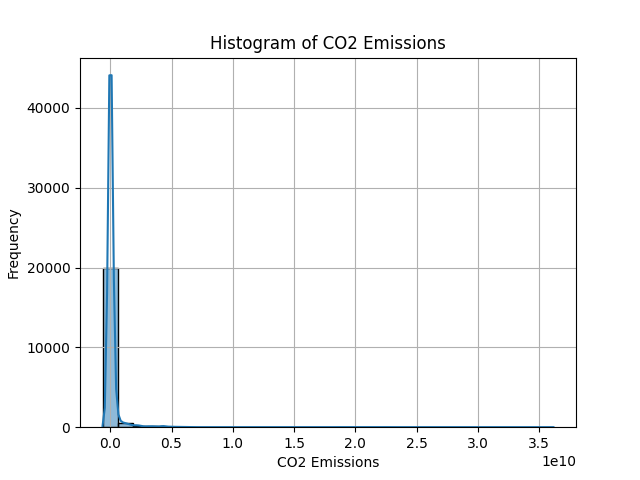
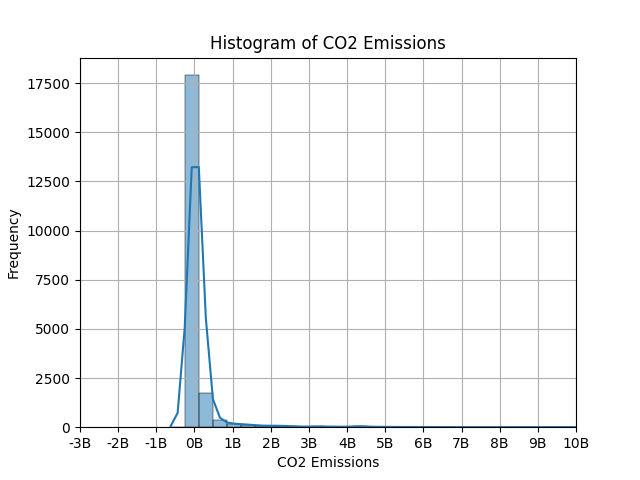
sync to remove incorrect exploratory analysis

diff --git a/C02.py b/C02.py
@@ -23,8 +23,13 @@ import seaborn as sns
 
 # -------------------------
 # 1. Distribution of CO2 emissions
-sns.histplot(df['CO2_emission'], kde=True, bins=30)  # Add `kde` and `bins` for better visualization
+sns.histplot(df['CO2_emission'], kde=True, bins=100)  # Add `kde` and `bins` for better visualization
 plt.title('Histogram of CO2 Emissions')
+
+# Set the x-axis range and ticks for 1e9 increments
+plt.xlim(-3e9, 10e9)  # Set the range of the x-axis
+tick_values = np.arange(-3e9, 10.1e9, 1e9)  # Generate tick marks every 1e9
+plt.xticks(tick_values, labels=[f'{int(tick/1e9)}B' for tick in tick_values])  # Format ticks as "X B"
 plt.xlabel('CO2 Emissions')
 plt.ylabel('Frequency')
 plt.grid(True)
